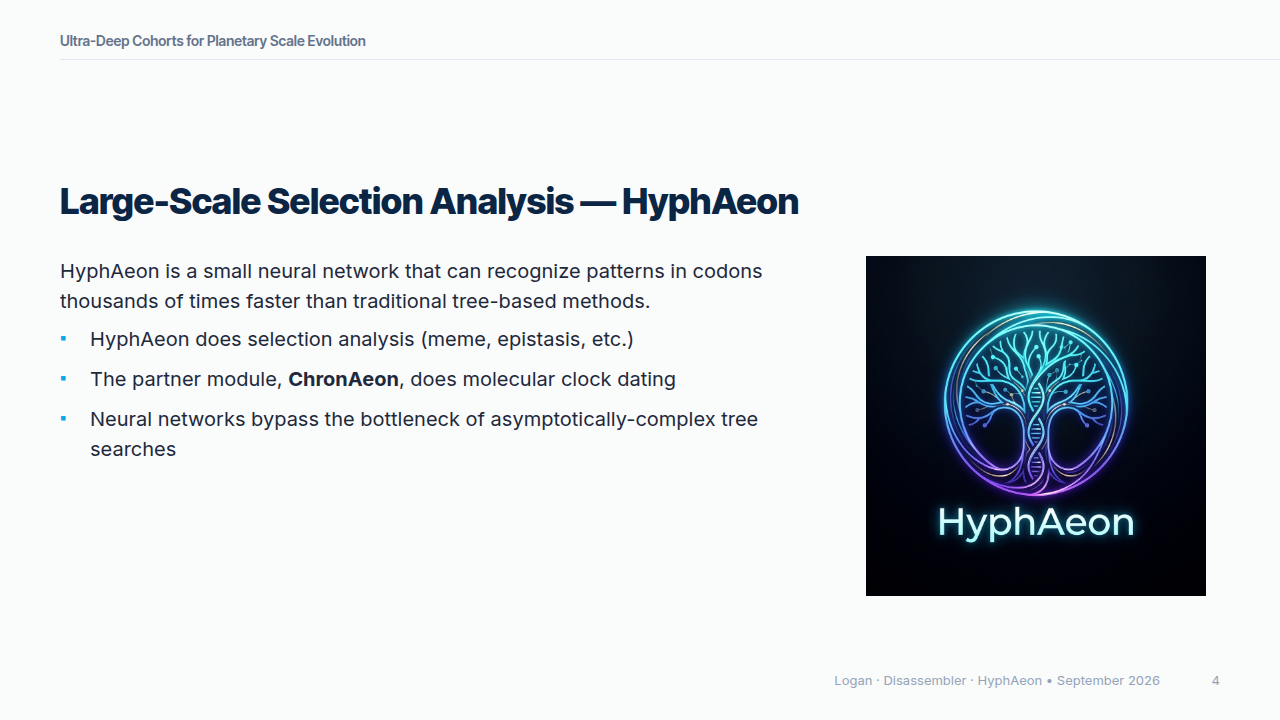
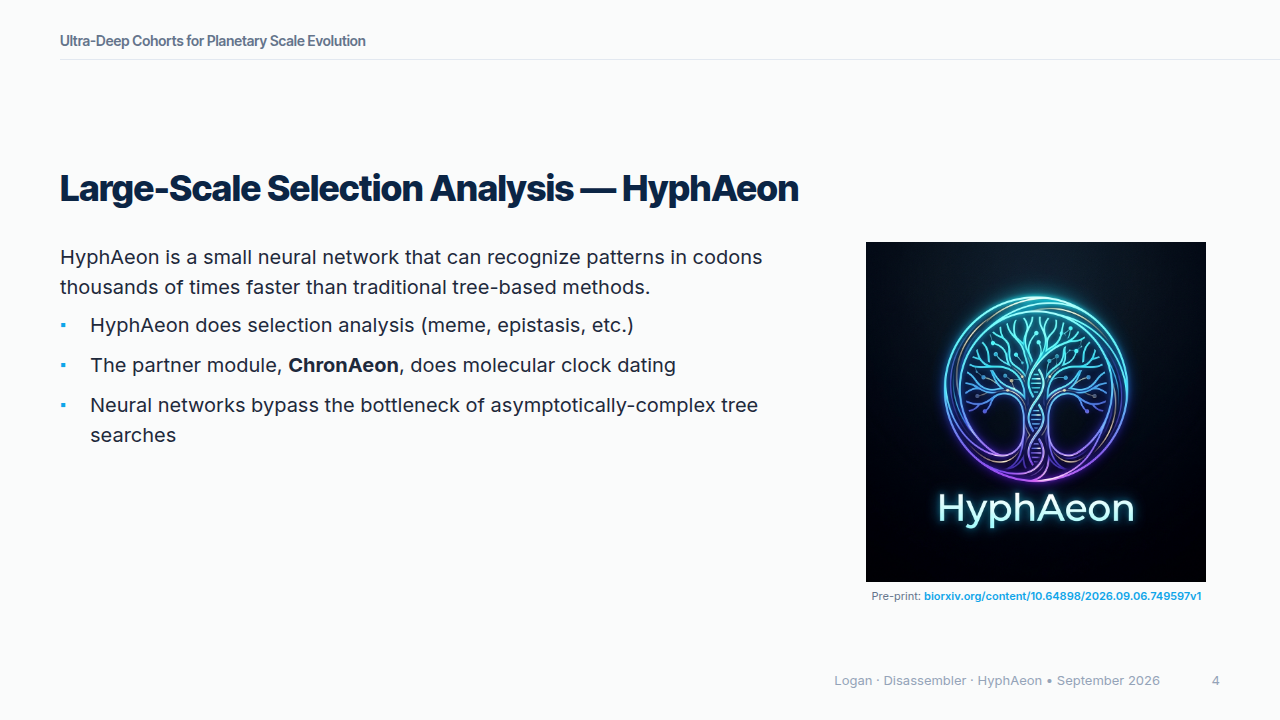
hyphaeon pre-print link

diff --git a/ultra_deep_cohorts_Sep_2026/index.html b/ultra_deep_cohorts_Sep_2026/index.html
@@ -46,7 +46,8 @@
 <li>The partner module, <strong>ChronAeon</strong>, does molecular clock dating</li>
 <li>Neural networks bypass the bottleneck of asymptotically-complex tree searches</li>
 </ul>
-</div><div class="col"><div class="figure figure-bare" style="--h:340px"><img src="assets/hyphaeon-logo.png" alt="" /></div></div></div><footer>Logan · Disassembler · HyphAeon • September 2026</footer>
+</div><div class="col"><div class="figure figure-bare" style="--h:340px"><img src="assets/hyphaeon-logo.png" alt="" /><div class="figure-caption"><p>Pre-print: <a href="https://www.biorxiv.org/content/10.64898/2026.09.06.749597v1">biorxiv.org/content/10.64898/2026.09.06.749597v1</a></p>
+</div></div></div></div><footer>Logan · Disassembler · HyphAeon • September 2026</footer>
 </section>
 </foreignObject></svg><svg data-marpit-svg="" viewBox="0 0 1280 720"><foreignObject width="1280" height="720"><section id="5" data-paginate="true" data-header="Ultra-Deep Cohorts for Planetary Scale Evolution" data-footer="Logan · Disassembler · HyphAeon • September 2026" data-class="compact middle" data-theme="deckkit" lang="en-US" class="compact middle" data-marpit-pagination="5" style="--paginate:true;--header:Ultra-Deep Cohorts for Planetary Scale Evolution;--footer:Logan · Disassembler · HyphAeon • September 2026;--class:compact middle;--theme:deckkit;" data-marpit-pagination-total="12" data-size="16:9">
 <header>Ultra-Deep Cohorts for Planetary Scale Evolution</header>

diff --git a/ultra_deep_cohorts_Sep_2026/slides.md b/ultra_deep_cohorts_Sep_2026/slides.md
@@ -88,6 +88,7 @@ HyphAeon is a small neural network that can recognize patterns in codons thousan
 +++
 
 ::: figure src="assets/hyphaeon-logo.png" h=340px bare
+Pre-print: [biorxiv.org/content/10.64898/2026.09.06.749597v1](https://www.biorxiv.org/content/10.64898/2026.09.06.749597v1)
 :::
 :::
 
